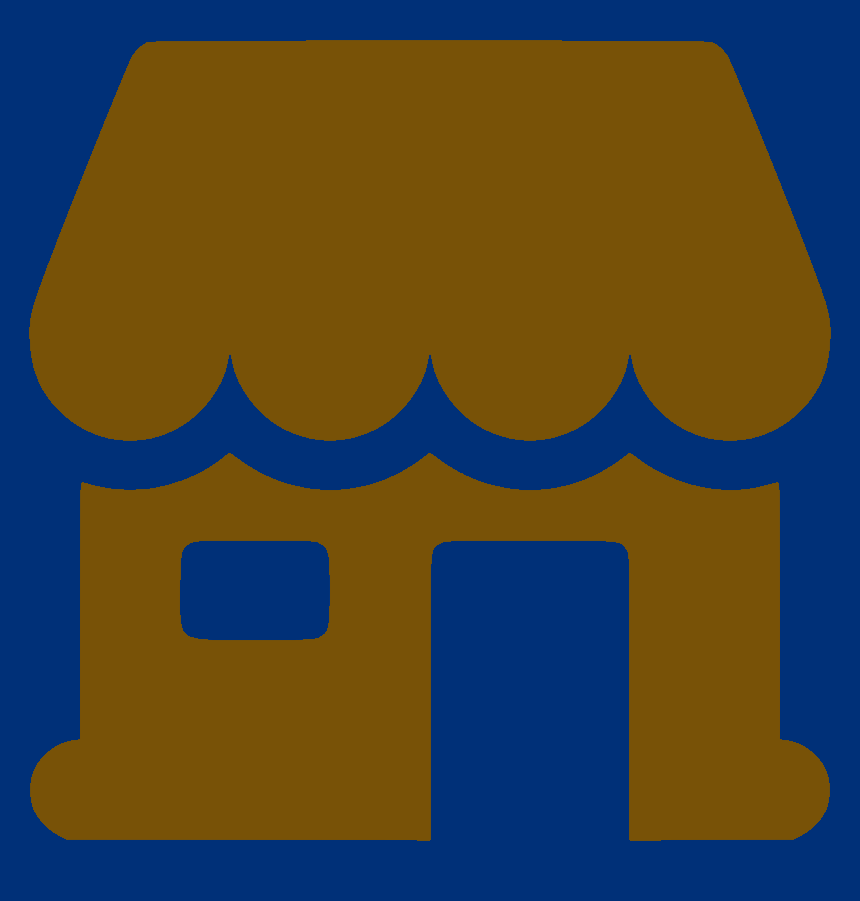
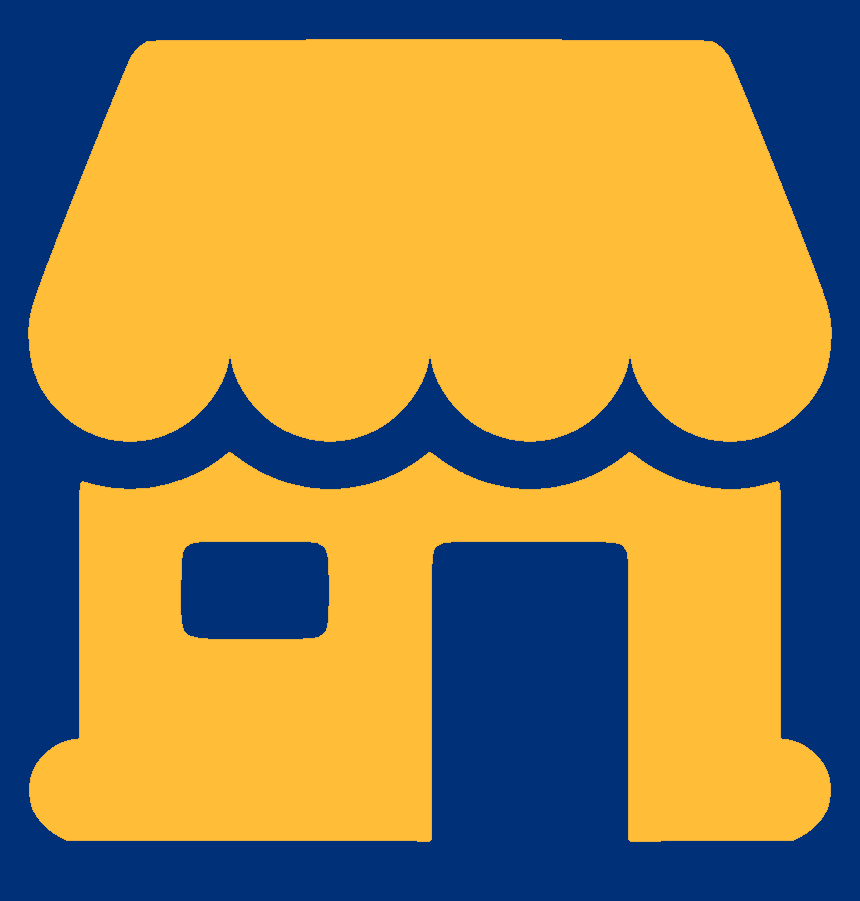
Paginas

diff --git a/CM/public/meeting.html b/CM/public/meeting.html
@@ -2,10 +2,16 @@
 
 <head>
   <title>Meets & Trips</title>
-  <link rel="stylesheet" href="/stylesheets/style.css">
-  <link rel="stylesheet" href="https://unpkg.com/leaflet@1.7.1/dist/leaflet.css"
-    integrity="sha512-xodZBNTC5n17Xt2atTPuE1HxjVMSvLVW9ocqUKLsCC5CXdbqCmblAshOMAS6/keqq/sMZMZ19scR4PsZChSR7A=="
-    crossorigin="" />
+  <meta charset="UTF-8">
+  <meta name="viewport" content="width=device-width, initial-scale=1.0">
+  <title>Meets & Trips</title>
+  <link rel="icon" href="images/favicon-32x32.png">
+  <link rel="stylesheet" href="stylesheets/style.css">
+  <link rel="preconnect" href="https://fonts.googleapis.com">
+  <link rel="preconnect" href="https://fonts.gstatic.com" crossorigin>
+  <link href="https://fonts.googleapis.com/css2?family=Teko:wght@700&display=swap" rel="stylesheet">
+  <link rel="stylesheet" href="https://unpkg.com/leaflet@1.7.1/dist/leaflet.css" integrity="sha512-xodZBNTC5n17Xt2atTPuE1HxjVMSvLVW9ocqUKLsCC5CXdbqCmblAshOMAS6/keqq/sMZMZ19scR4PsZChSR7A==" 
+  crossorigin=""/>
 
   <!-- Make sure you put this AFTER Leaflet's CSS -->
   <script src="https://unpkg.com/leaflet@1.7.1/dist/leaflet.js"
@@ -16,11 +22,32 @@
 </head>
 
 <body>
-  <h1>Meetings</h1>
+  <header>
+    <img src="images/Logo.png">
+
+    <section>
+      <nav>
+        <ul>
+          <li><a href="index.html">Home</a></li>
+          <li><a href="meeting.html">Events</a></li>
+          <li><a href="discussions.html">Discussions</a></li>
+          <li><a href="store.html">Store</a></li>
+          <li><button type="button">Log In</button></li>
+        </ul>
+      </nav>
+    </section>
+  </header>
+
   <main id="concentracoes">
     
   </main>
-  <a href="criarMeeting.html">Criar evento</a>
+
+  <footer>
+    <section class="wrap">
+      <p class="align">Copyright 2021 - All rights reserved</p>
+      <p class="align">Developed by João Rolo e Tomás Ferreira</a></p>
+    </section>
+  </footer>
 </body>
 
 </html>

diff --git a/CM/public/index.html b/CM/public/index.html
@@ -23,6 +23,7 @@
           <li><a href="meeting.html">Events</a></li>
           <li><a href="discussions.html">Discussions</a></li>
           <li><a href="store.html">Store</a></li>
+          <li><button type="button">Log In</button></li>
         </ul>
       </nav>
     </section>
@@ -35,26 +36,26 @@
 
     <section class="wrap">
       <section class="block">
-        <img class="imgsize" src="images/86-862582_event-icon2-event-planning-icon-clipart.png">
+        <a href="meeting.html"><img class="imgsize" src="images/86-862582_event-icon2-event-planning-icon-clipart.png"></a>
         <p>Create car meetings and road trips</p>
       </section>
 
       <section class="block">
-        <img class="imgsize1" src="images/71-714765_octicons-comment-discussion-discussion-icon-png-transparent-png.png">
+        <a href="discussions.html"><img class="imgsize1" src="images/71-714765_octicons-comment-discussion-discussion-icon-png-transparent-png.png"></a>
         <p>Share your opinions with other users</p>
       </section>
 
       <section class="block">
-        <img class="imgsize2" src="images/121-1218821_shop-market-marketplace-store-ecommerce-shopping-building-market.png">
+        <a href="store.html"><img class="imgsize2" src="images/121-1218821_shop-market-marketplace-store-ecommerce-shopping-building-market.png"></a>
         <p>Spend your points to get rewards</p>
       </section>
     </section>
   </main>
 
   <footer>
-    <section>
-      <p>Copyright 2020 - All rights reserved</p>
-      <p>Developed by <a href="#">Design Agency</a></p>
+    <section class="wrap">
+      <p class="align">Copyright 2021 - All rights reserved</p>
+      <p class="align">Developed by João Rolo e Tomás Ferreira</a></p>
     </section>
   </footer>
 </body>

diff --git a/CM/public/stylesheets/style.css b/CM/public/stylesheets/style.css
@@ -3,6 +3,10 @@
   margin: 0;
   padding: 0;
 }
+/*------------Classes-----------------*/
+.align {
+  padding: 15px 14px;
+}
 
 .wrap {
   display: flex;
@@ -28,6 +32,9 @@
   width: 100px;
 }
 
+/*------------/Classes-----------------*/
+
+/*------------Header-----------------*/
 header {
   display: flex;
   justify-content: space-between;
@@ -37,10 +44,6 @@ header {
 
 header img {
   width: 261px;
-}
-
-section {
-  text-align: center;
 }
 
 nav {
@@ -54,17 +57,13 @@ nav li {
   color: #FFFFFF;
 }
 
-main section {
-  margin: 10px 0px;
-}
-
-footer {
-  background-color: #003078
-}
-
-p {
-  color: #FFFFFF;
-  text-transform: uppercase;
+li button {
+  color: #FFBD38;
+  background-color: #003078;
+  font-size: 20px;
+  border: 1px solid #FFBD38;
+  padding: 0px 10px;
+  cursor: pointer;
 }
 
 nav a, nav a:visited {
@@ -75,5 +74,24 @@ nav a, nav a:visited {
 nav a:hover {
   color: #FFBD38;
 }
+/*------------/Header-----------------*/
+
+/*------------Main-----------------*/
+main section {
+  margin: 10px 0px;
+  text-align: center;
+}
+
+p {
+  color: #FFFFFF;
+  text-transform: uppercase;
+}
+/*------------/Main-----------------*/
+
+/*------------Footer-----------------*/
+footer {
+  background-color: #003078
+}
+/*------------/Footer-----------------*/
 
 #map { height: 180px; }

diff --git a/CM/public/stylesheets/meeting.css b/CM/public/stylesheets/meeting.css
@@ -1,0 +1,12 @@
+#concentracoes{
+    width: 100px;
+}
+
+button {
+    color: #FFBD38;
+    background-color: #003078;
+    font-size: 20px;
+    border: 1px solid #FFBD38;
+    padding: 0px 10px;
+    cursor: pointer;
+}
